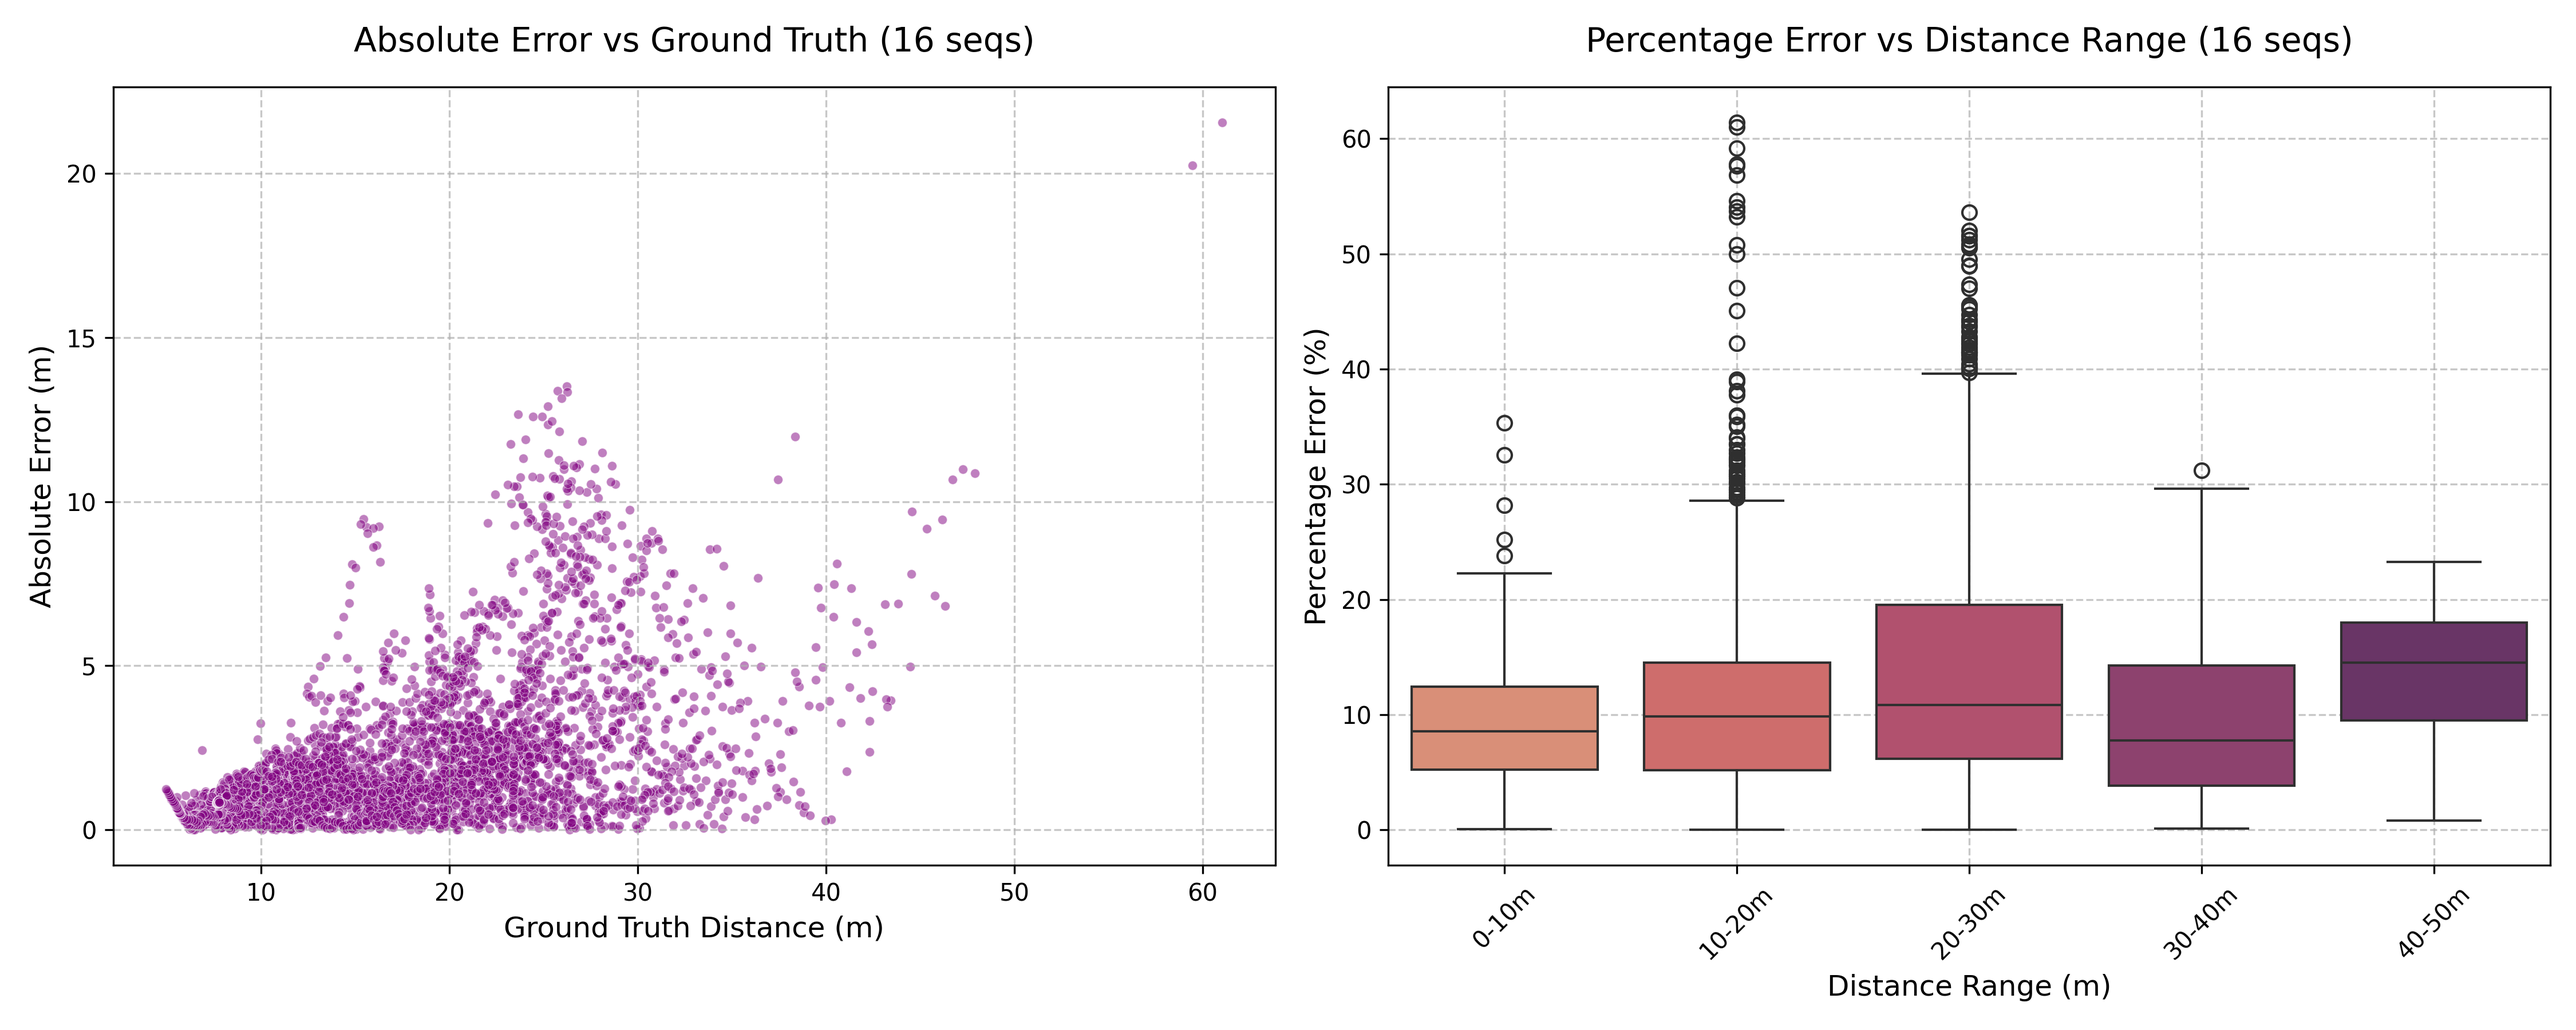
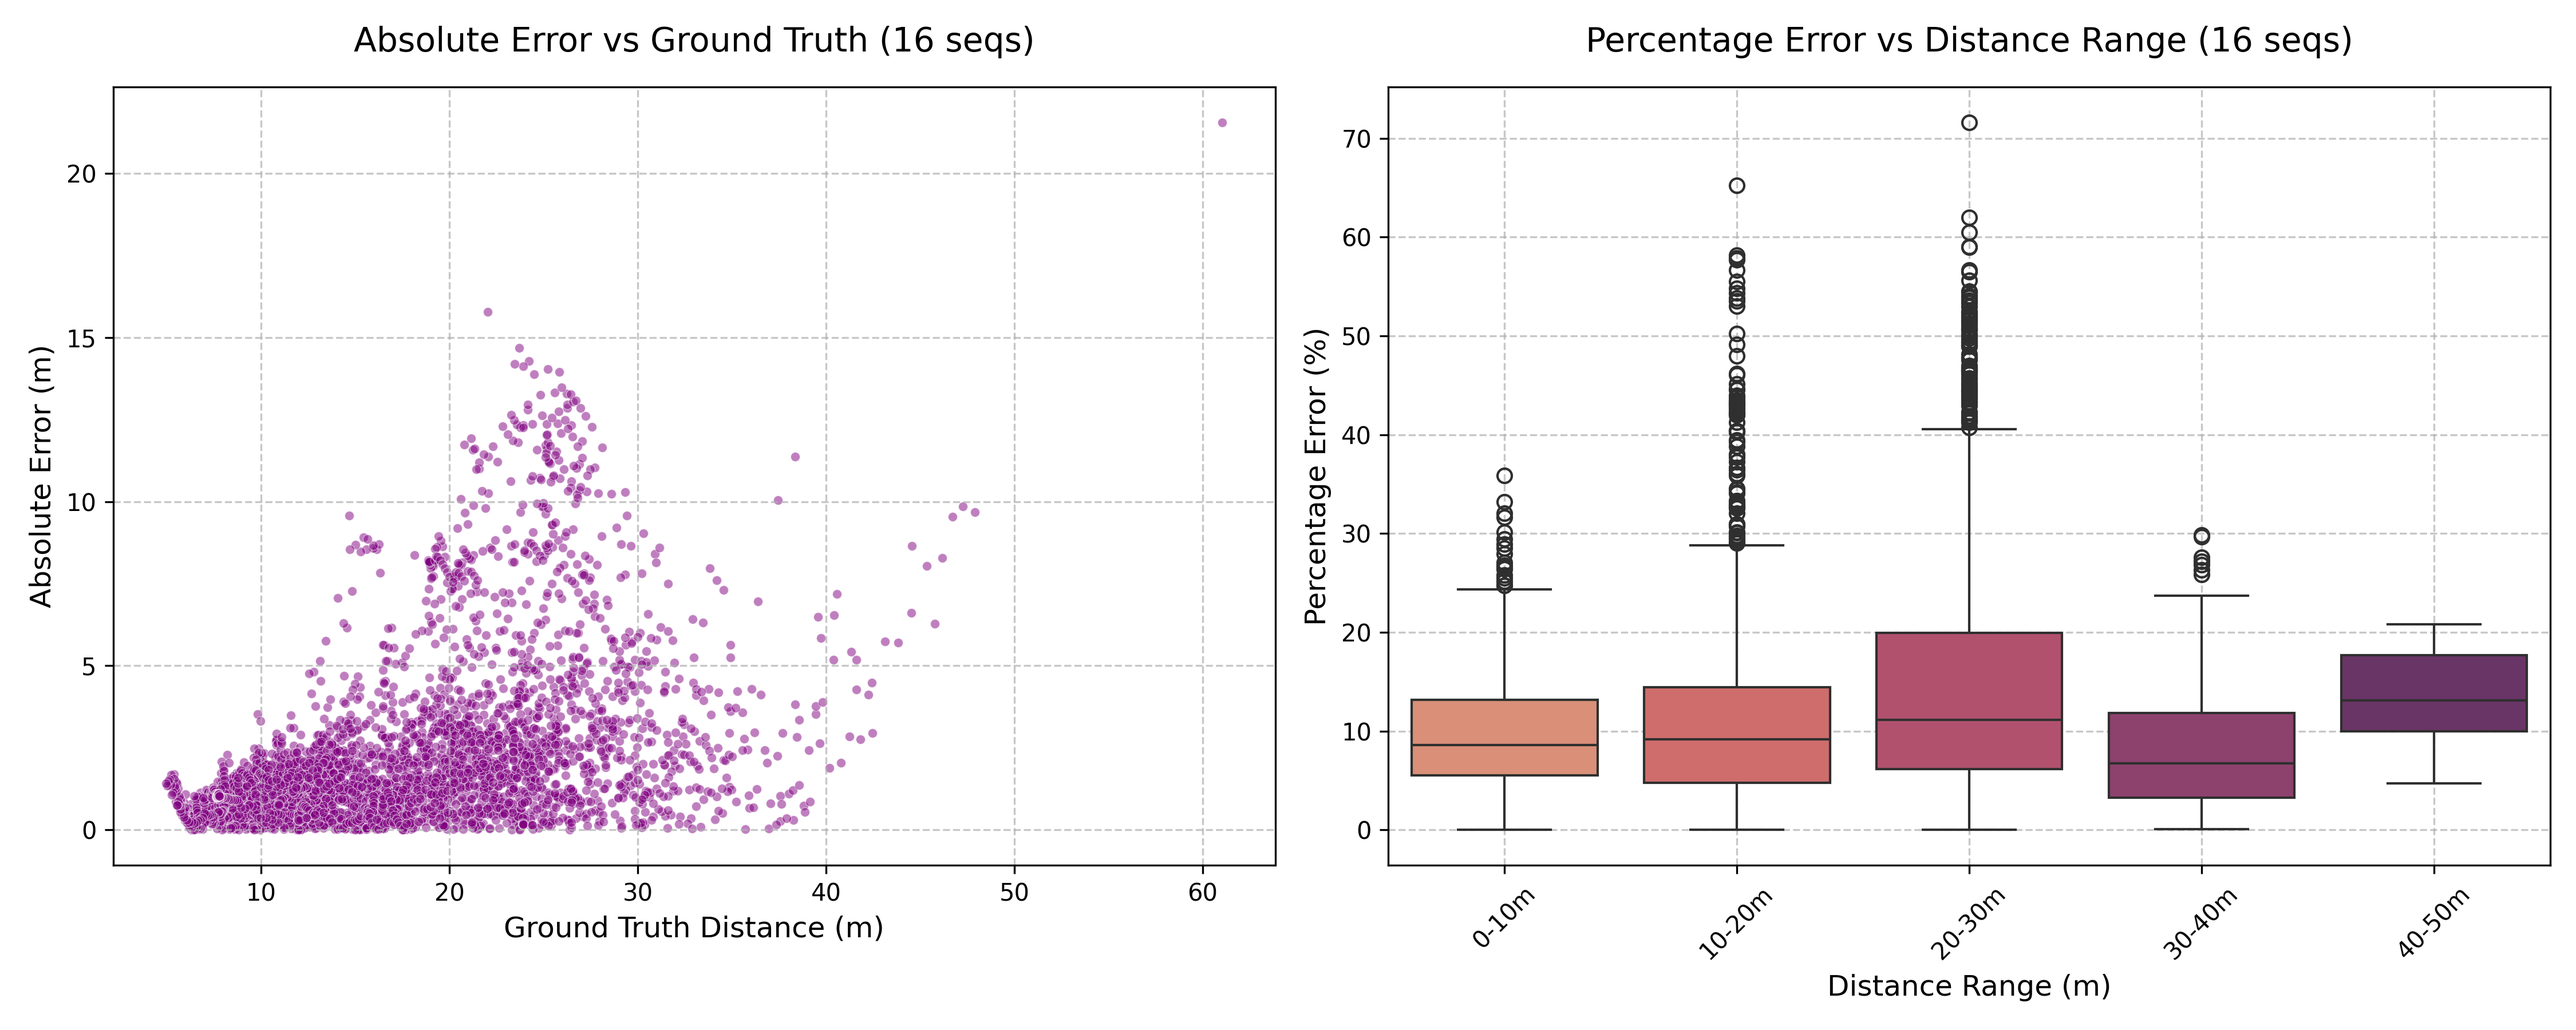
docs: fix, got wrong csv

diff --git a/vebieudo_thongke.py b/vebieudo_thongke.py
@@ -5,7 +5,7 @@ import seaborn as sns
 import numpy as np
 import os
 
-file_pattern = 'logs/3_*_details.csv'
+file_pattern = 'logs/4_*_details.csv'
 all_files = sorted(glob.glob(file_pattern))
 
 if not all_files:
